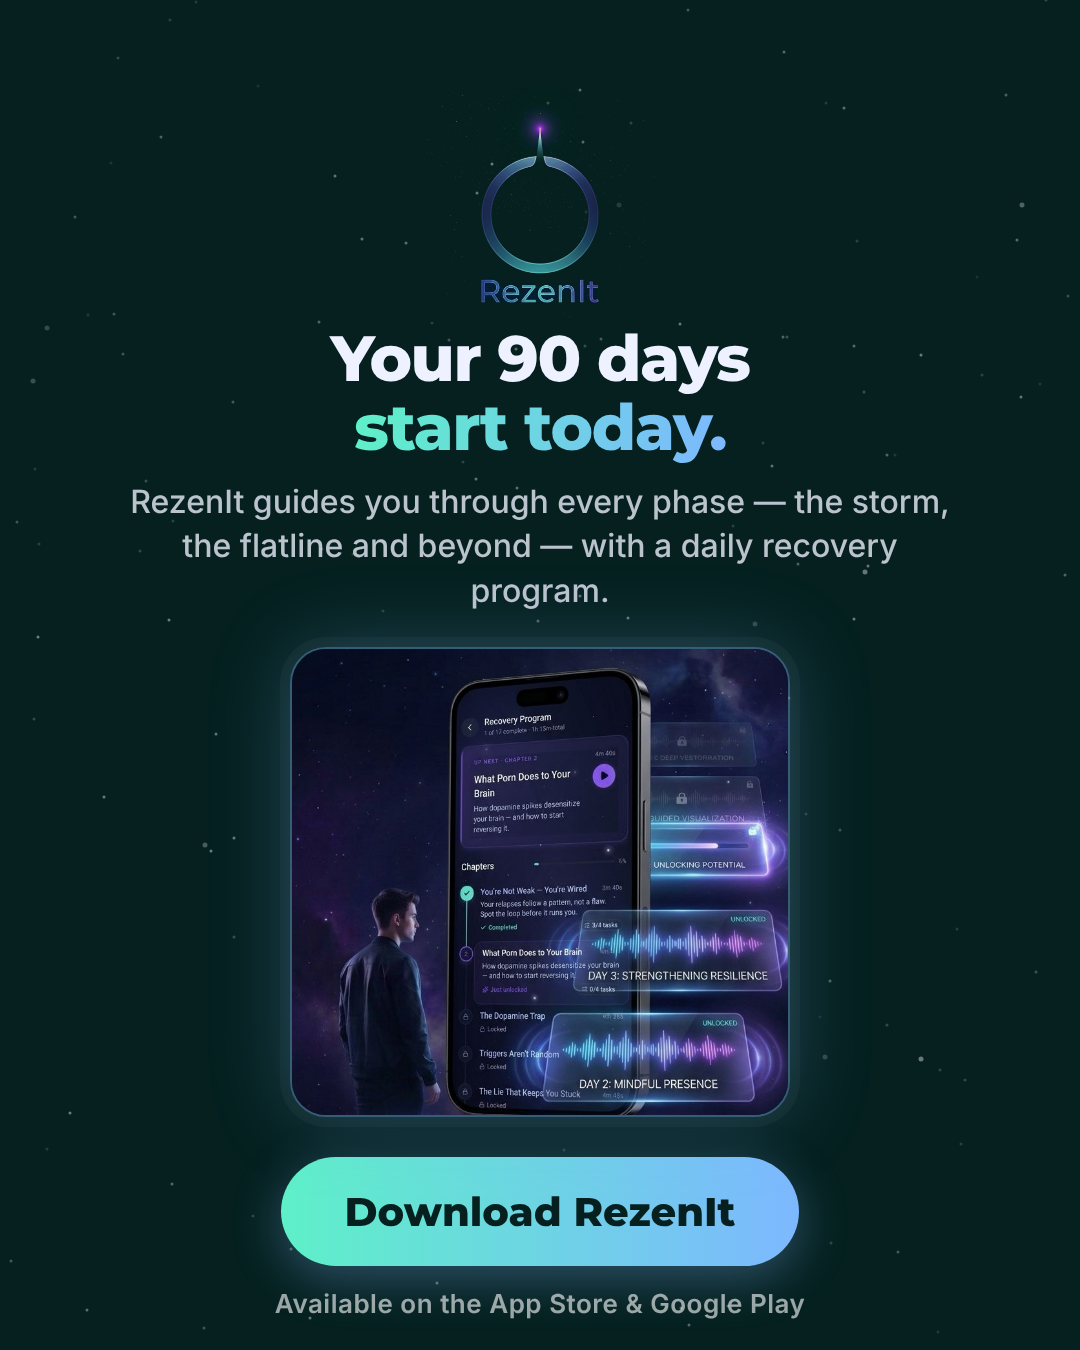
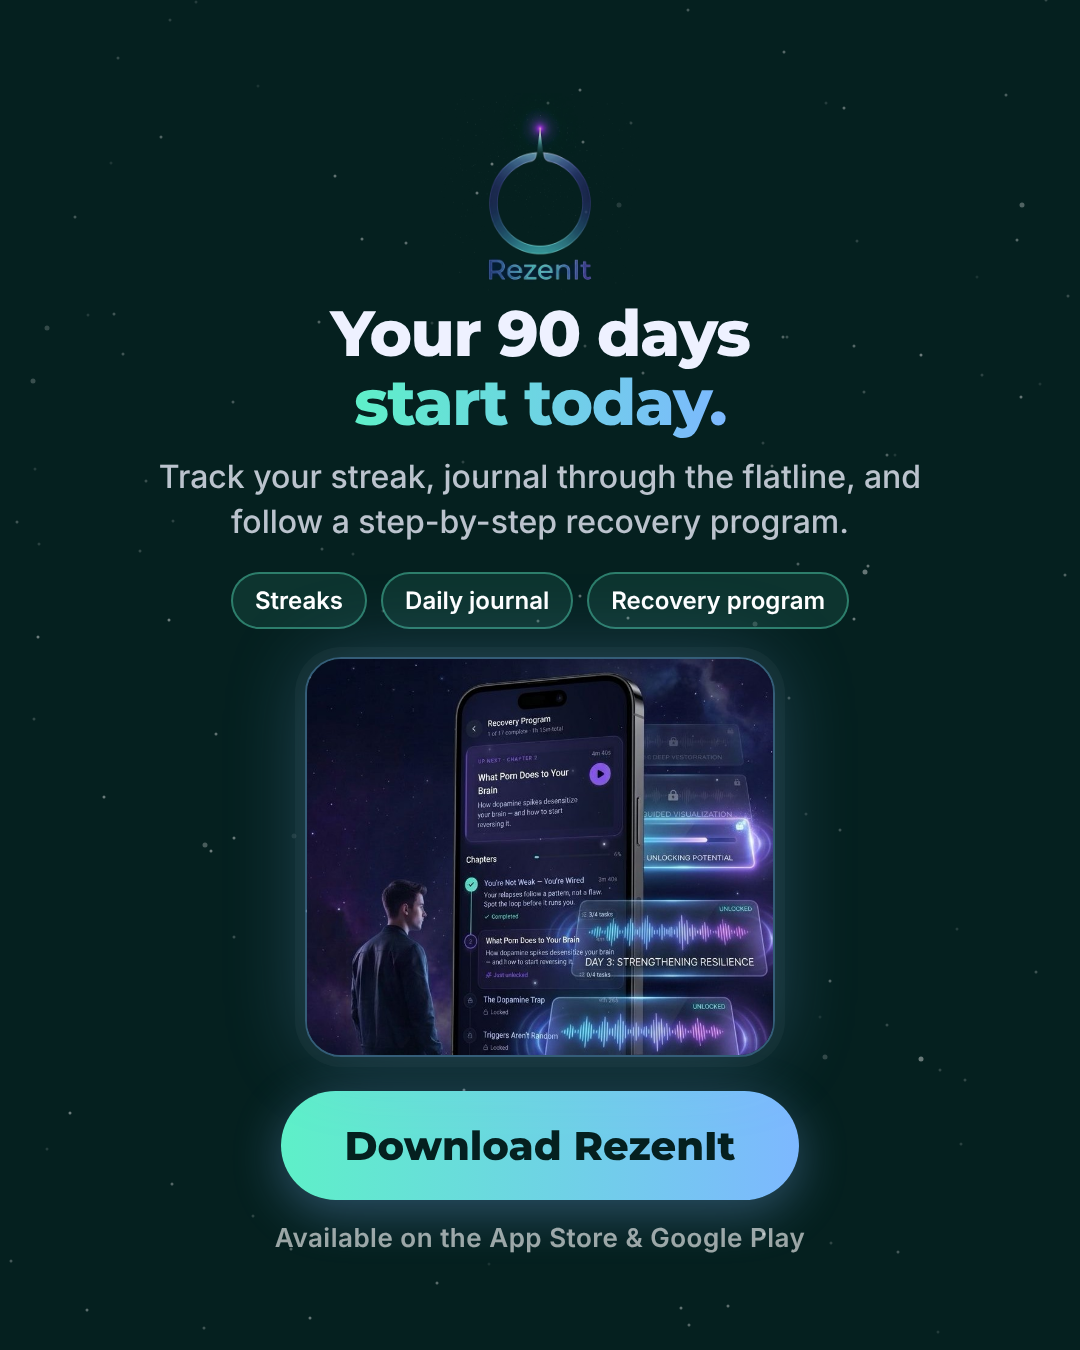
Use real RezenIt features on CTA slides and in the content brief
Claude-Session: https://claude.ai/code/session_01XLMXB18yN3BUapqsaVULB1

Changed region(s): [[0.1222, 0.0933, 0.8556, 0.9956]]

diff --git a/rezenit-carousels/render.js b/rezenit-carousels/render.js
@@ -72,14 +72,16 @@ function css(t) {
     padding:16px 30px;border-radius:999px;letter-spacing:.5px}
   /* CTA */
   .cta{align-items:center;text-align:center}
-  .cta .logo{width:230px;height:230px;object-fit:contain;margin-bottom:6px}
+  .cta .logo{width:200px;height:200px;object-fit:contain;margin-bottom:6px}
   .cta h2{font-size:64px;margin:0 0 18px}
   .cta .lead{font-family:'Inter';font-weight:500;font-size:32px;line-height:1.38;color:rgba(238,241,255,.78);max-width:840px}
-  .phone{position:relative;width:500px;height:470px;margin:34px 0 40px;border-radius:36px;overflow:hidden;
+  .phone{position:relative;width:470px;height:400px;margin:28px 0 34px;border-radius:36px;overflow:hidden;
     border:2px solid ${t.a2}66;box-shadow:0 0 80px ${t.a2}40,0 0 0 10px rgba(255,255,255,.03)}
   .phone img{width:100%;height:100%;object-fit:cover;object-position:50% 8%}
   .btn{font-weight:800;font-size:40px;color:${t.bg};background:linear-gradient(90deg,${t.a1},${t.a2});padding:30px 64px;border-radius:999px;
     box-shadow:0 12px 50px ${t.a2}55}
+  .chips{display:flex;gap:14px;justify-content:center;margin-top:28px}
+  .chips span{font-family:'Inter';font-weight:600;font-size:24px;color:#fff;padding:12px 22px;border-radius:999px;border:2px solid ${t.a1}66;background:${t.a1}18}
   .stores{margin-top:22px;font-family:'Inter';font-weight:600;font-size:26px;color:rgba(255,255,255,.6);letter-spacing:.5px}
   `;
 }
@@ -109,6 +111,7 @@ function slideBody(s, t, i) {
         ${s.note ? `<div class="note">${fmt(s.note)}</div>` : ''}</div>`;
     case 'cta':
       return `<div class="main cta"><img class="logo" src="${LOGO}"><h2>${fmt(s.title)}</h2><div class="lead">${fmt(s.lead)}</div>
+        ${s.features ? `<div class="chips">${s.features.map(f => `<span>${esc(f)}</span>`).join('')}</div>` : ''}
         <div class="phone"><img src="${APP}"></div><div class="btn">${esc(s.button || 'Download RezenIt')}</div>
         <div class="stores">${esc(s.stores || 'Available on the App Store & Google Play')}</div></div>`;
   }

diff --git a/rezenit-carousels/README.md b/rezenit-carousels/README.md
@@ -9,6 +9,16 @@ carousels/         rendered output: "<DD-MM-YY> Carousel <n>/<1..6>.png"
 render.js          content JSON -> PNG slides (Playwright)
 ```
 
+## Brand facts (from rezenit.com — use these, don't invent features)
+- Positioning: "Break the loop. Build a life that does not need the escape." For people tired of white-knuckling it alone.
+  Shame-free, private by design, science-informed tools, real support when urges hit.
+- Features: 1-on-1 accountability (matched with real people), p*rn blocker, streak tracking, step-by-step recovery
+  program (guided audio sessions + daily actions), anonymous community, public habit tracking (partner sees progress),
+  panic button (instant tools to stop urges), AI therapist & coach, daily journaling, "Learn the truth" guides.
+- Stores: App Store and Google Play. Site CTA: "One download. A steadier week starts tomorrow."
+- RezenIt is a self-help tool, not a substitute for professional care: never make medical promises.
+- CTA slides: set `features` to 3 short chips matching the carousel's topic.
+
 ## Make a new day
 
 1. Copy the latest `content/*.json`, set `"date"` to `DD-MM-YY`, write 5 new carousels.
